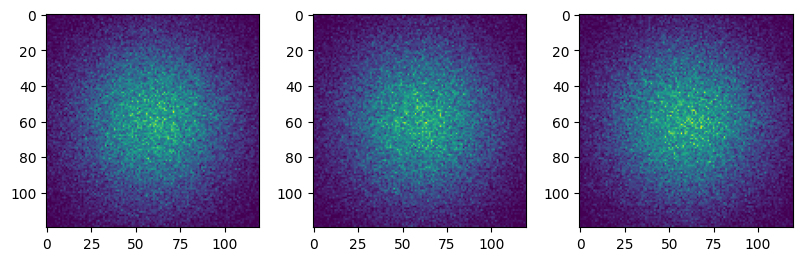
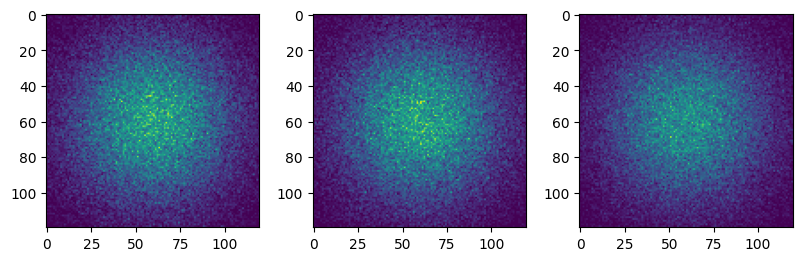
Updating tutorial rsts for docs

Changed region(s): [[0.717, 0.0613, 0.9975, 0.8889], [0.3741, 0.0613, 0.6546, 0.8889], [0.0623, 0.0613, 0.3429, 0.8889]]

diff --git a/docs/tutorial/1 - Binning fake data.rst b/docs/tutorial/1 - Binning fake data.rst
@@ -64,33 +64,33 @@ Generate Fake Data
       <tbody>
         <tr>
           <th>0</th>
-          <td>-0.559979</td>
-          <td>-1.035467</td>
-          <td>0.105233</td>
+          <td>-0.424826</td>
+          <td>-0.502427</td>
+          <td>-0.596955</td>
         </tr>
         <tr>
           <th>1</th>
-          <td>-1.169115</td>
-          <td>-2.500055</td>
-          <td>-0.318407</td>
+          <td>-0.323580</td>
+          <td>-1.945639</td>
+          <td>-0.329882</td>
         </tr>
         <tr>
           <th>2</th>
-          <td>-0.844209</td>
-          <td>-2.421613</td>
-          <td>-0.701325</td>
+          <td>-0.199051</td>
+          <td>-0.678583</td>
+          <td>-0.286432</td>
         </tr>
         <tr>
           <th>3</th>
-          <td>0.883959</td>
-          <td>0.294016</td>
-          <td>-0.952194</td>
+          <td>-0.458054</td>
+          <td>-0.378451</td>
+          <td>-0.161591</td>
         </tr>
         <tr>
           <th>4</th>
-          <td>-0.477803</td>
-          <td>-1.065592</td>
-          <td>-0.648771</td>
+          <td>0.028276</td>
+          <td>1.780522</td>
+          <td>0.861112</td>
         </tr>
         <tr>
           <th>...</th>
@@ -100,33 +100,33 @@ Generate Fake Data
         </tr>
         <tr>
           <th>99995</th>
-          <td>-2.064485</td>
-          <td>-1.021941</td>
-          <td>-0.714520</td>
+          <td>0.648457</td>
+          <td>1.017227</td>
+          <td>0.681250</td>
         </tr>
         <tr>
           <th>99996</th>
-          <td>-0.521770</td>
-          <td>-0.918292</td>
-          <td>-0.712320</td>
+          <td>1.358100</td>
+          <td>-3.356823</td>
+          <td>-0.040907</td>
         </tr>
         <tr>
           <th>99997</th>
-          <td>0.134919</td>
-          <td>-1.343498</td>
-          <td>-1.078550</td>
+          <td>0.771047</td>
+          <td>0.146662</td>
+          <td>-0.399212</td>
         </tr>
         <tr>
           <th>99998</th>
-          <td>0.645835</td>
-          <td>1.968997</td>
-          <td>-0.368549</td>
+          <td>-0.011129</td>
+          <td>0.333914</td>
+          <td>1.523470</td>
         </tr>
         <tr>
           <th>99999</th>
-          <td>-1.554335</td>
-          <td>0.041844</td>
-          <td>-1.983995</td>
+          <td>0.804708</td>
+          <td>-0.263338</td>
+          <td>-0.038946</td>
         </tr>
       </tbody>
     </table>
@@ -162,8 +162,8 @@ Compute the binning along the pandas dataframe
 
 .. parsed-literal::
 
-    CPU times: user 1.16 s, sys: 15.8 ms, total: 1.17 s
-    Wall time: 1.18 s
+    CPU times: user 1.54 s, sys: 35 ms, total: 1.58 s
+    Wall time: 1.62 s
 
 
 .. code:: ipython3
@@ -286,8 +286,8 @@ multiple for demonstration purpouses.
 
 .. parsed-literal::
 
-    CPU times: user 553 ms, sys: 327 ms, total: 880 ms
-    Wall time: 793 ms
+    CPU times: user 686 ms, sys: 321 ms, total: 1.01 s
+    Wall time: 946 ms
 
 
 .. code:: ipython3

diff --git a/docs/tutorial/3 - Metadata collection and export to NeXus.rst b/docs/tutorial/3 - Metadata collection and export to NeXus.rst
@@ -30,7 +30,7 @@ Load Data
 
     data_path = '../../' # Put in Path to a storage of at least 20 Gbyte free space.
     if not os.path.exists(data_path + "/WSe2.zip"):
-        os.system(f"curl --output {data_path}/WSe2.zip https://zenodo.org/record/6369728/files/WSe2.zip")
+        os.system(f"curl -L  --output {data_path}/WSe2.zip https://zenodo.org/record/6369728/files/WSe2.zip")
     if not os.path.isdir(data_path + "/Scan049_1") or not os.path.isdir(data_path + "energycal_2019_01_08/"):
         os.system(f"unzip -d {data_path} -o {data_path}/WSe2.zip")
 
